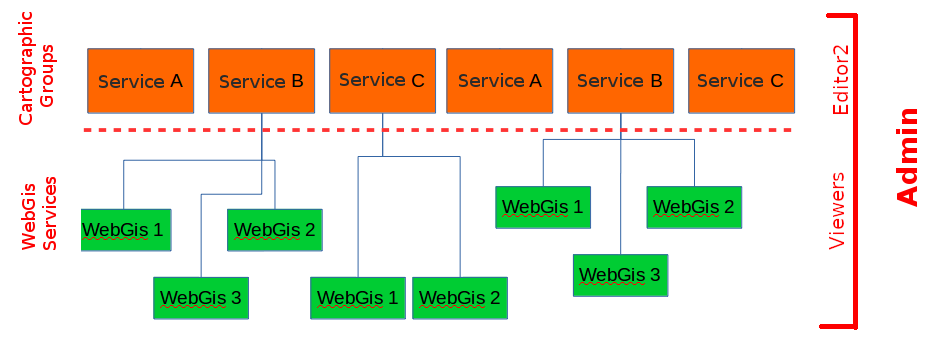
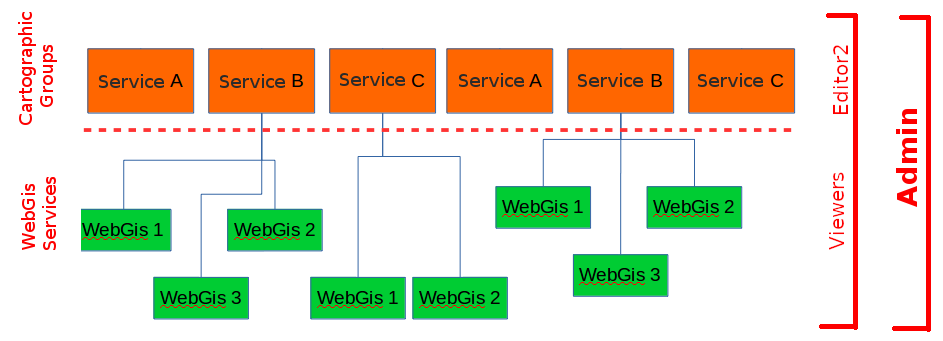
Same corrections

Changed region(s): [[0.9533, 0.0587, 1.0, 0.9971], [0.9533, 0.0293, 0.9841, 0.0587]]

diff --git a/g3wsuite_editing.md b/g3wsuite_editing.md
@@ -348,7 +348,7 @@ The tools available are the following:
    * add one or more records to the child table (only if alphanumeric) associating them with all the selected parents
    * modify one or more fields of all the records of the child table, connected to the selected father geometries
  * ![](images/manual/icon_feature_move.png) **Move feature:** to move a feature
- * ![](icon_feature_rotate.png) **Rotate feature:** to rotate a geoemtry. The rotation of point geometries is linked to the presence of a field called "rotation" in the attribute table, on which the direction of the symbology associated with the point is based. 
+ * ![](images/manual/icon_feature_rotate.png) **Rotate feature:** to rotate a geoemtry. The rotation of point geometries is linked to the presence of a field called "rotation" in the attribute table, on which the direction of the symbology associated with the point is based. 
   * ![](images/manual/icon_feature_paste.png) **Paste features from other layers:** click on the icon, select a layer from those available in the drop-down menu (limited based on compatible geometry), select a feature,, fill in the attributes and press the green **Insert/Edit** button. The copy and paste operation can also be performed by referring to geometries deriving from local layers added by the user using the **AddLayer** tool.
 
  * ![](images/manual/icon_feature_copy.png) **Copy features:** to copy one or more features from the same layer

diff --git a/projectsettings.md b/projectsettings.md
@@ -218,18 +218,22 @@ The check box relating to the **`WMS`** column defines whether the values contai
 
 
 ### Definition of the attribute display form
-For each layer it is possible to define the structure of the attributes form associated with displaying the results following query operations.
+In the **Attribute form** section, it is possible, for vector layers, to define the structure of the attributes form associated with displaying the results following query operations.
 
 On QGIS, we can build a personalized form (query form) by creating thematic tabs and groups and defining the distribution of the individual fields and their aliases.
 
 This structural organization will be replicated directly on the query form on the WebGis service.
 
-The current version of QGIS also handles conditional forms and cascade drill-downs
-
 ### Layer basic information
 
 If you set a descriptive information in the **`Abstract`** form of the **`QGIS Server`** session of the **`Layer Properties`**, this information will be associated with the layer at the webgis level.
 
+
+### Editing
+
+The suite inherits numerous settings from the QGIS project related to the attribute editing features that can be defined in the **Attribute form** section.
+
+For more information, see the [dedicated paragraph](https://g3w-suite.readthedocs.io/en/v3.10.x/g3wsuite_editing.html).
 
 ### Temporal settings
 

diff --git a/demo.md b/demo.md
@@ -359,7 +359,7 @@ Once the editing function is activated, updating the service, the **`Tools menu`
 
 ![](images/manual/editing_form2.png)
 
-For **further information** on the web editing function, read the [**dedicated chapter on the manual**](https://g3w-suite.readthedocs.io/en/v3.9.x/g3wsuite_editing.html#online-editing-tools-at-cartographic-client-level)
+For **further information** on the web editing function, read the [**dedicated chapter on the manual**](https://g3w-suite.readthedocs.io/en/v3.10.x/g3wsuite_editing.html#online-editing-tools-at-cartographic-client-level)
 
 # Personalize your demo
 
@@ -367,6 +367,6 @@ For **further information** on the web editing function, read the [**dedicated c
 
 Redefine attribute forms, aliases and editing widgets associated with the individual fields and reload the project to check the new settings.
 
-**It is advisable to consult the** [paragraph dedicated](https://g3w-suite.readthedocs.io/en/v3.9.x/g3wsuite_editing.html#activation-and-configuration) **to the list and limitations of the individual editing widgets inheritable from the QGIS project.**
+**It is advisable to consult the** [paragraph dedicated](https://g3w-suite.readthedocs.io/en/v3.10.x/g3wsuite_editing.html#activation-and-configuration) **to the list and limitations of the individual editing widgets inheritable from the QGIS project.**
 
 

diff --git a/user_groups_organization.md b/user_groups_organization.md
@@ -117,7 +117,7 @@ Below is a summary table of the powers associated with the different roles.
 In this case the main administrator (**Admin role**) manages users, containers and all WebGis services
 Access to Cartographic Groups and individual WebGis services can be limited to system users (**Viewer** role) or to free access (**Anonymous user**)
 
-**ontents organized on a single level (Cartographic goups)**
+**Contents organized on a single level (Cartographic goups)**
 ![](images/manual/organization_case_A1.png)
 
 **Contents organized on two levels(Cartographic Macrooups and Cartographic goups)**
@@ -130,10 +130,10 @@ User management will remain limited to the main administrator (**Admin** role)
 
 Access to Cartographic Groups and individual WebGis services can be limited to system users (**Viewer** role) or to free access (**Anonymous user**)
 
-**ontents organized on a single level (Cartographic goups)**
+**Contents organized on a single level (Cartographic goups)**
 ![](images/manual/organization_case_B1.png)
 
-**Contents organized on two levels(Cartographic Macrooups and Cartographic goups)**
+**Contents organized on two levels (Cartographic Macrooups and Cartographic goups)**
 ![](images/manual/organization_case_B2.png)
 
 ### Advanced organization

diff --git a/g3wsuite_client.md b/g3wsuite_client.md
@@ -25,6 +25,8 @@ The contents of the header differ for the public user and for the logged in user
    * **Change map:** which allows you to switch from one WebGis service to another while maintaining extension and display scale
  * **Language:** the choice of language is reflected in the individual menus of the map client and on the contents of the access portal. The languages available are those activated by the Administration. 
 
+![](images/manual/g3wclient_header_anonymus.png)
+
 **Logged user**
 
  * **Logo, title and subtitle:**, deriving from:
@@ -39,6 +41,8 @@ The contents of the header differ for the public user and for the logged in user
    * **Embed map:** URL with the references to the extension currently displayed
    * **Change map:** which allows you to switch from one WebGis service to another while maintaining extension and display scale
  * **Language:** the choice of language is reflected in the individual menus of the map client and on the contents of the access portal. The languages available are those activated by the Administration. 
+
+ ![](images/manual/g3wclient_header_signed.png)
 
 ### Main menù
 

diff --git a/index.rst b/index.rst
@@ -4,7 +4,7 @@
    contain the root `toctree` directive.
 
 ==================================================
-G3W-SUITE 3.9 Deployment and administration manual
+G3W-SUITE 3.10 Deployment and administration manual
 ==================================================
 
 **G3W-SUITE is a frame-work, based on Django and written in Python language, which allows to manage in an integrated way the different components of QGIS for the realization of its own Geographic Information System and for the publication on WebGis of its own projects in a simple and intuitive way.**
@@ -17,7 +17,7 @@ G3W-SUITE is entirely based on tested Open Source software components built arou
 
 **The current development policy provides for the compatibility of the G3W-SUITE application only with the latest LTR version of QGIS**
 
-**The current release (3.9) is compatible with QGIS 3.34 LTR (Server and Desktop).**
+**The current release (3.10) is compatible with QGIS 3.40 LTR (Server and Desktop).**
 
 G3W-SUITE is a modular client-server application for the publication and management of QGIS cartographic projects, consisting of 3 components:
 

diff --git a/datamanagement.md b/datamanagement.md
@@ -64,7 +64,7 @@ Using this tool it is possible to manage the physical geographic data on the ser
 **The root directory of the File Manager corresponds to the local **`project_data`** directory**
 
 It will therefore be necessary, in the case of using geographic files on the file system, to synchronize the contents of the local **`project_data`** directory (and any sub-directories) before proceeding with the publication of QGIS projects.
-
+ 
 Two specific directories can also be created within the root directory of the File Manager:
 
  * **`media_user`**: a directory exposed on the web, to store your **multimedia files**

diff --git a/introduction.md b/introduction.md
@@ -11,7 +11,7 @@ The following aspects will be analyzed within the manual:
 * **management of the online editing function for the creation of web cartographic management systems**
 * **publishing and managing QGIS projects as WebGis services**
 * **creation of searches, visualization of graphics created with the DataPlotly plugin and definition of constraints (geographic and alphanumeric) on visualization and editing permissions**
-
+ 
 **The current release (3.10) is compatible with `QGIS 3.40.x LTR` (Server and Desktop).**
 
 ![](images/manual/demo_qgis_project.png)

diff --git a/g3wsuite_administration.md b/g3wsuite_administration.md
@@ -903,7 +903,7 @@ The values shown in the search tool will be those defined on the basis of the ta
 
 **Alternatively, you can use the QGIS API as a search method to overcome this limitation. See** [dedicated paragraph](https://g3w-suite.readthedocs.io/en/v3.10.x/settings.html#g3w-client-search-endpoint).
 
-
+ 
 #### Multiple layers search
 
 The **Other searching layers** option allows you to extend the search carried out to other layers.
